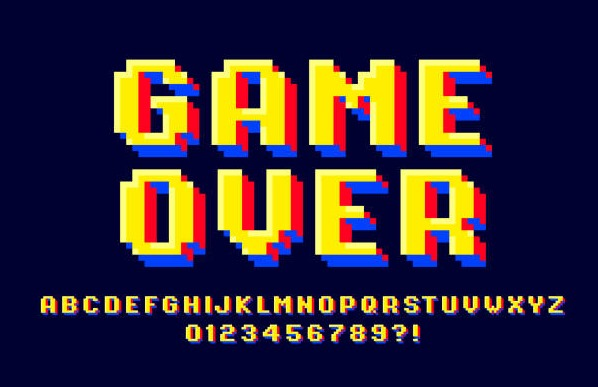
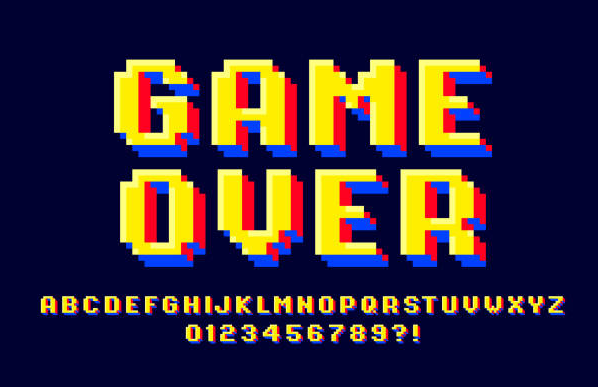
Imagenes pantalla final

diff --git a/src/principal.cpp b/src/principal.cpp
@@ -6,6 +6,7 @@
 #include "ajedrezbot.h"
 
 Inicio inicio;
+Inicio final;
 Ajedrez ajedrez;
 Ajedrez2 ajedrez2;
 Ajedrezbot ajedrezbot;
@@ -62,7 +63,8 @@ void OnDraw(void)
 	if (start == 1) ajedrez.dibuja(); //dibuja el tablero y las piezas
 	else if (start == 2) ajedrez2.dibuja();//4x4
 	else if (start == 3) ajedrezbot.dibuja();//4x4
-	else inicio.dibuja();
+	else if (start == 4) final.dibuja_final();//dibuja pantalla fin partida
+	else inicio.dibuja_portada();
 
 	
 
@@ -137,9 +139,20 @@ void OnKeyboardDown(unsigned char key, int x_t, int y_t)
 
 	default:
 		break;
+
+	case 'F':
+		if (start == 1 || start == 2)
+		{
+			start = 4;
+		}
+		break;
+	case 'f':
+		if (start == 1 || start == 2)
+		{
+			start = 4;
+		}
+		break;
 	}
-
-
 	glutPostRedisplay();
 }
 
